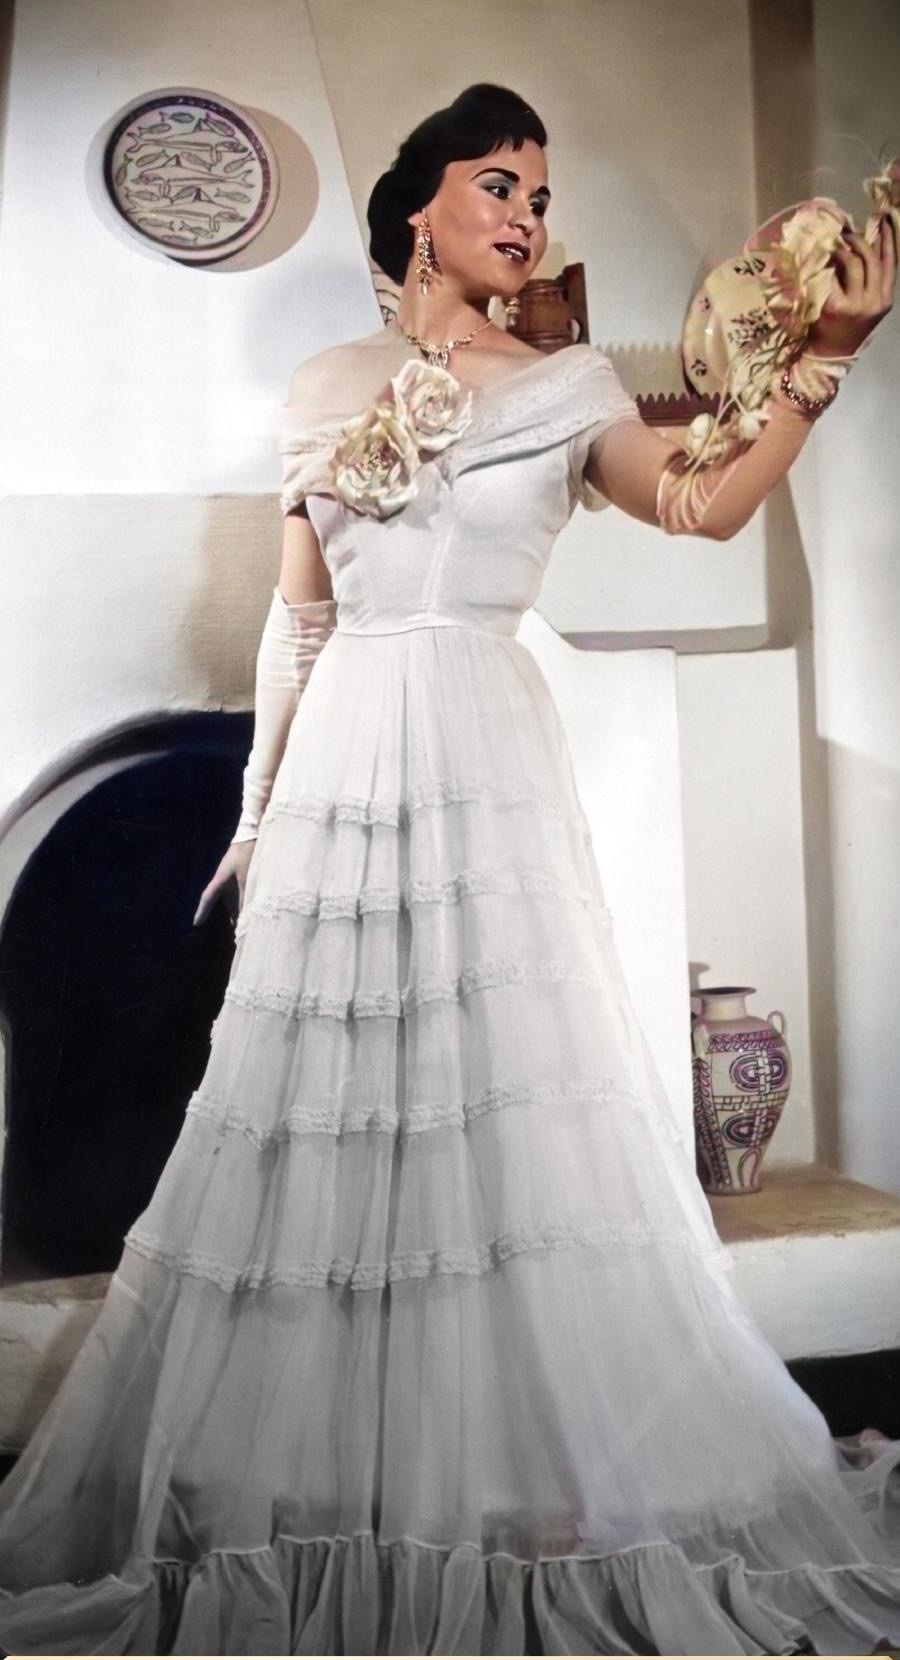
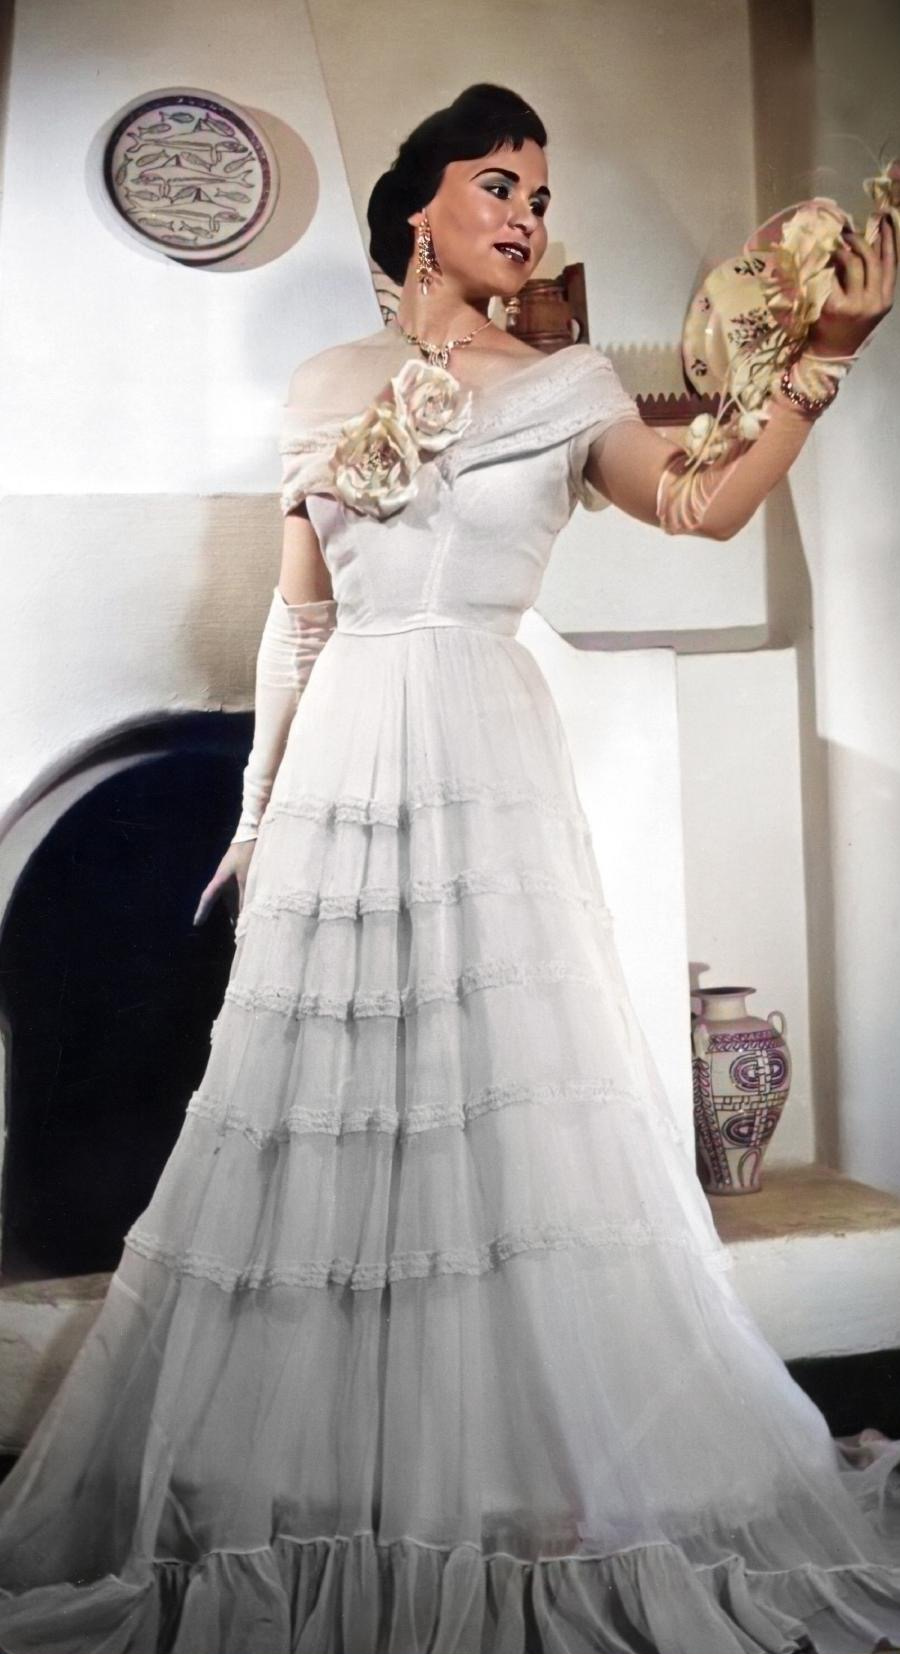
Trim the light edge off the /story hero portrait

diff --git a/components/StoryLifeClient.tsx b/components/StoryLifeClient.tsx
@@ -339,8 +339,8 @@ export default function StoryLifeClient() {
             <Image
               src="/images/mary-white-gown.jpg"
               alt="Mary Pavlatou — full-length colorized portrait in a white tiered couture gown"
-              width={800}
-              height={1388}
+              width={900}
+              height={1654}
               priority
               style={{ width: "auto", height: "auto", maxWidth: "100%", maxHeight: "clamp(360px,64vh,640px)", objectFit: "contain", display: "block", filter: "drop-shadow(0 10px 30px rgba(139,112,48,0.22))" }}
             />
